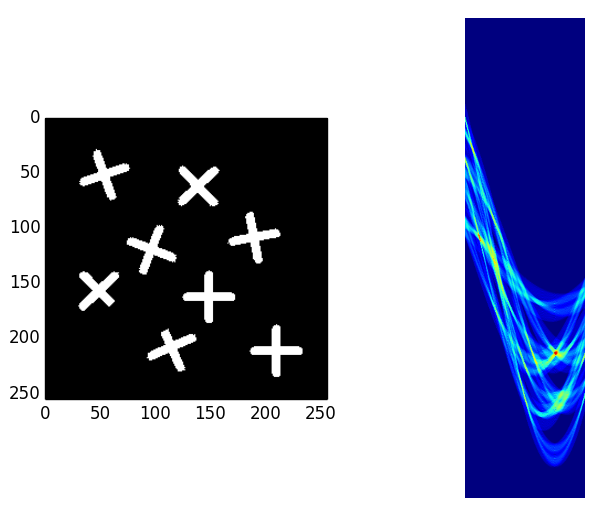
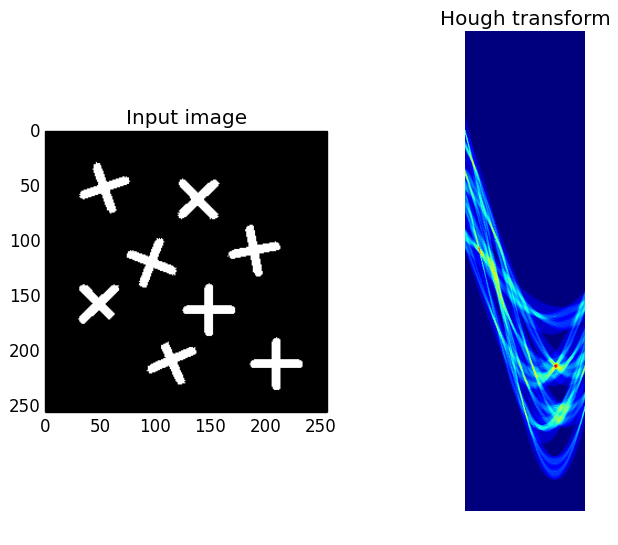
Show hough transform plot

diff --git a/hough_transform.py b/hough_transform.py
@@ -45,8 +45,10 @@ def show_hough_line(imgpath):
   accumulator, thetas, rhos = hough_line(img)
 
   plt.subplot(1, 2, 1)
+  plt.title('Input image')
   plt.imshow(img, 'gray')
   plt.subplot(1, 2, 2)
+  plt.title('Hough transform')
   plt.imshow(accumulator, cmap='jet')
   plt.axis('off')
   plt.savefig('imgs/output.png', bbox_inches='tight')

diff --git a/README.md b/README.md
@@ -2,10 +2,12 @@
 
 Python implementation of hough transform for detecting lines in images.
 
-##Usage
+## Usage
 ```py
 python hough_transform.py
 ```
+## Sample 
+![hough transform image](imgs/output.png)
 
 ## Resources
 * OpenCV's hough transform documentation: 
